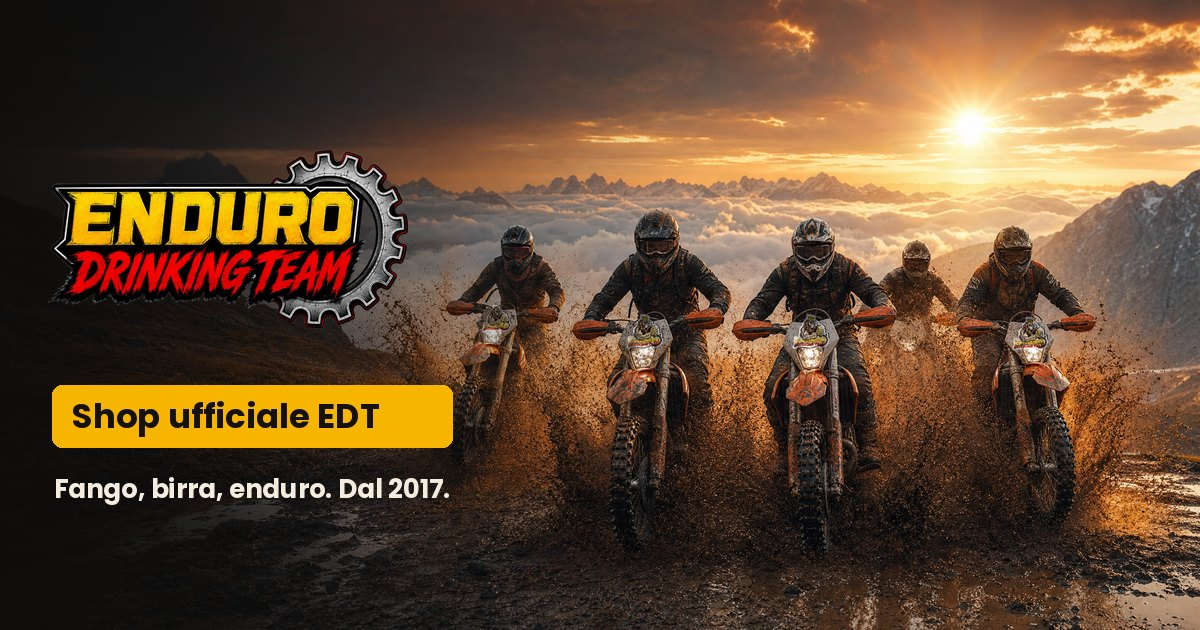
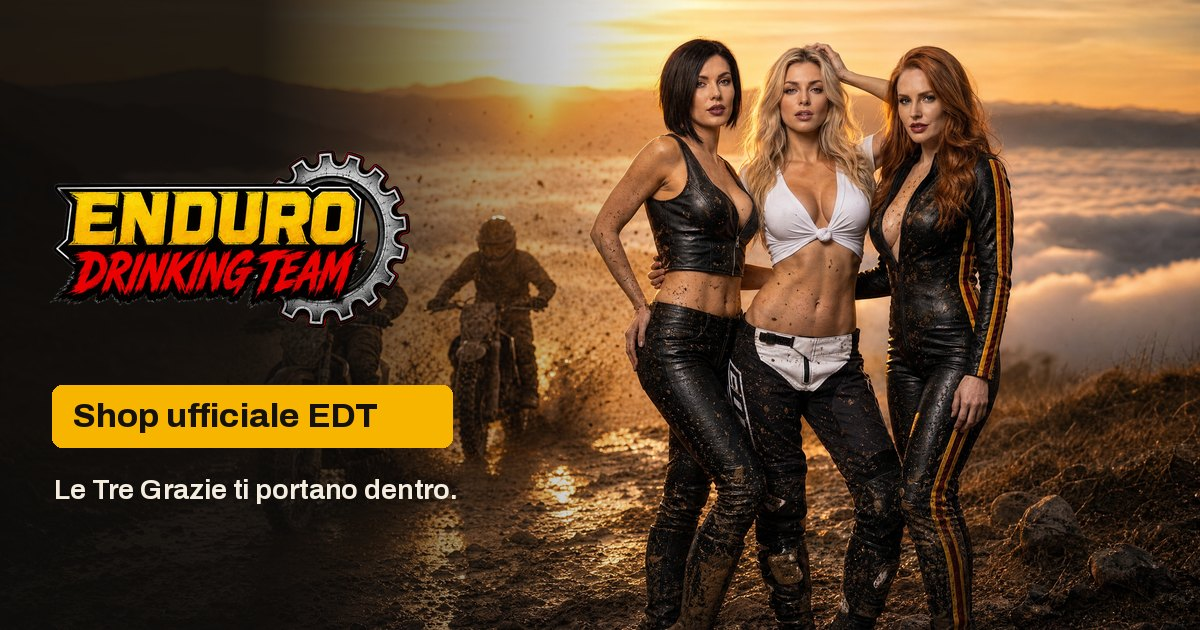
Anteprima del link con le tre ragazze immagine
Claude-Session: https://claude.ai/code/session_01NjZ5nCHtFKjStfz6ceuY2F

diff --git a/index.html b/index.html
@@ -12,14 +12,14 @@
 <meta property="og:url" content="https://endurodrinkingteam.com/">
 <meta property="og:title" content="Enduro Drinking Team · Shop ufficiale">
 <meta property="og:description" content="Non è un giro. È una storia. Magliette, felpe, completi da gara e adesivi dell'EDT.">
-<meta property="og:image" content="https://endurodrinkingteam.com/img/og.jpg">
+<meta property="og:image" content="https://endurodrinkingteam.com/img/og.jpg?v=2">
 <meta property="og:image:width" content="1200">
 <meta property="og:image:height" content="630">
 <meta property="og:image:alt" content="Piloti dell'Enduro Drinking Team nel fango al tramonto">
 <meta name="twitter:card" content="summary_large_image">
 <meta name="twitter:title" content="Enduro Drinking Team · Shop ufficiale">
 <meta name="twitter:description" content="Non è un giro. È una storia. Magliette, felpe, completi da gara e adesivi dell'EDT.">
-<meta name="twitter:image" content="https://endurodrinkingteam.com/img/og.jpg">
+<meta name="twitter:image" content="https://endurodrinkingteam.com/img/og.jpg?v=2">
 <script type="application/ld+json">{"@context":"https://schema.org","@graph":[{"@type":"Organization","@id":"https://endurodrinkingteam.com/#edt","name":"Enduro Drinking Team","alternateName":"EDT","url":"https://endurodrinkingteam.com/","logo":"https://endurodrinkingteam.com/img/logo-edt.png","foundingDate":"2017","description":"Gruppo di amici enduristi del Piemonte, con shop ufficiale del merchandising.","sameAs":["https://www.facebook.com/endurodrinkingteam/","https://www.instagram.com/endurodrinking/","https://www.tiktok.com/@endurodrinkingteam","https://www.youtube.com/@piemonteoff-road"]},{"@type":"WebSite","url":"https://endurodrinkingteam.com/","name":"Enduro Drinking Team","inLanguage":"it","publisher":{"@id":"https://endurodrinkingteam.com/#edt"}}]}</script>
 <script type="application/ld+json" id="ld-prodotti">{"@context": "https://schema.org", "@type": "ItemList", "name": "Shop Enduro Drinking Team", "itemListElement": [{"@type": "ListItem", "position": 1, "item": {"@type": "Product", "name": "Completo da gara EDT", "url": "https://endurodrinkingteam.com/#p=completo-gara", "image": "https://endurodrinkingteam.com/img/p/completo-svetlana.jpg", "description": "Maglia + pantalone con il cinghiale, il tuo nome e il numero.", "brand": {"@type": "Brand", "name": "Enduro Drinking Team"}, "offers": {"@type": "Offer", "price": "130.00", "priceCurrency": "EUR", "availability": "https://schema.org/InStock", "url": "https://endurodrinkingteam.com/#p=completo-gara"}}}, {"@type": "ListItem", "position": 2, "item": {"@type": "Product", "name": "Maglia da gara EDT", "url": "https://endurodrinkingteam.com/#p=maglia-gara", "image": "https://endurodrinkingteam.com/img/s/maglia-gara2.jpg", "description": "Enduro Drinking Team davanti, il cinghiale e il tuo nome sulla schiena.", "brand": {"@type": "Brand", "name": "Enduro Drinking Team"}, "offers": {"@type": "Offer", "price": "30.00", "priceCurrency": "EUR", "availability": "https://schema.org/InStock", "url": "https://endurodrinkingteam.com/#p=maglia-gara"}}}, {"@type": "ListItem", "position": 3, "item": {"@type": "Product", "name": "Pantalone da gara EDT", "url": "https://endurodrinkingteam.com/#p=pantalone-gara", "image": "https://endurodrinkingteam.com/img/x/pantalone-dettaglio.jpg", "description": "Il pantalone del completo, con i cinghiali sulle cosce. Venduto da solo.", "brand": {"@type": "Brand", "name": "Enduro Drinking Team"}, "offers": {"@type": "Offer", "price": "110.00", "priceCurrency": "EUR", "availability": "https://schema.org/InStock", "url": "https://endurodrinkingteam.com/#p=pantalone-gara"}}}, {"@type": "ListItem", "position": 4, "item": {"@type": "Product", "name": "Sono un endurista semplice", "url": "https://endurodrinkingteam.com/#p=endurista-semplice", "image": "https://endurodrinkingteam.com/img/p/endurista-svetlana.jpg", "description": "La t-shirt più onesta del Piemonte: scudetto EDT sulla manica e il tuo nome sulla schiena.", "brand": {"@type": "Brand", "name": "Enduro Drinking Team"}, "offers": {"@type": "Offer", "price": "18.00", "priceCurrency": "EUR", "availability": "https://schema.org/InStock", "url": "https://endurodrinkingteam.com/#p=endurista-semplice"}}}, {"@type": "ListItem", "position": 5, "item": {"@type": "Product", "name": "Felpa EDT con nome", "url": "https://endurodrinkingteam.com/#p=felpa-edt", "image": "https://endurodrinkingteam.com/img/s/felpa.jpg", "description": "Zip e cappuccio, il tuo nome sul petto.", "brand": {"@type": "Brand", "name": "Enduro Drinking Team"}, "offers": {"@type": "Offer", "price": "25.00", "priceCurrency": "EUR", "availability": "https://schema.org/InStock", "url": "https://endurodrinkingteam.com/#p=felpa-edt"}}}, {"@type": "ListItem", "position": 6, "item": {"@type": "Product", "name": "T-shirt GEV", "url": "https://endurodrinkingteam.com/#p=t-shirt-gev", "image": "https://endurodrinkingteam.com/img/s/gev.jpg", "description": "Cinque stelle e il tuo nome.", "brand": {"@type": "Brand", "name": "Enduro Drinking Team"}, "offers": {"@type": "Offer", "price": "18.00", "priceCurrency": "EUR", "availability": "https://schema.org/InStock", "url": "https://endurodrinkingteam.com/#p=t-shirt-gev"}}}, {"@type": "ListItem", "position": 7, "item": {"@type": "Product", "name": "Fuck the GEV", "url": "https://endurodrinkingteam.com/#p=fuck-the-gev", "image": "https://endurodrinkingteam.com/img/s/fuckgev.jpg", "description": "Il cinghiale anti-GEV. Per chi ha capito.", "brand": {"@type": "Brand", "name": "Enduro Drinking Team"}, "offers": {"@type": "Offer", "price": "18.00", "priceCurrency": "EUR", "availability": "https://schema.org/InStock", "url": "https://endurodrinkingteam.com/#p=fuck-the-gev"}}}, {"@type": "ListItem", "position": 8, "item": {"@type": "Product", "name": "Fuck the GEV 2026", "url": "https://endurodrinkingteam.com/#p=fuck-the-gev-2026", "image": "https://endurodrinkingteam.com/img/x/fgev26-tee.jpg", "description": "La nuova grafica 2026 in rosso, bianco e verde, grande sul petto.", "brand": {"@type": "Brand", "name": "Enduro Drinking Team"}, "offers": {"@type": "Offer", "price": "18.00", "priceCurrency": "EUR", "availability": "https://schema.org/InStock", "url": "https://endurodrinkingteam.com/#p=fuck-the-gev-2026"}}}, {"@type": "ListItem", "position": 9, "item": {"@type": "Product", "name": "T-shirt EDT 2026", "url": "https://endurodrinkingteam.com/#p=t-shirt-2020", "image": "https://endurodrinkingteam.com/img/s/tshirt2026.jpg", "description": "Il cinghiale vichingo 2026 sul rosso.", "brand": {"@type": "Brand", "name": "Enduro Drinking Team"}, "offers": {"@type": "Offer", "price": "15.00", "priceCurrency": "EUR", "availability": "https://schema.org/InStock", "url": "https://endurodrinkingteam.com/#p=t-shirt-2020"}}}, {"@type": "ListItem", "position": 10, "item": {"@type": "Product", "name": "Manica lunga classica", "url": "https://endurodrinkingteam.com/#p=manica-lunga", "image": "https://endurodrinkingteam.com/img/s/manica.jpg", "description": "Il cinghiale 2026 grande sul petto. Per le uscite di novembre.", "brand": {"@type": "Brand", "name": "Enduro Drinking Team"}, "offers": {"@type": "Offer", "price": "20.00", "priceCurrency": "EUR", "availability": "https://schema.org/InStock", "url": "https://endurodrinkingteam.com/#p=manica-lunga"}}}, {"@type": "ListItem", "position": 11, "item": {"@type": "Product", "name": "T-shirt Serial Griller", "url": "https://endurodrinkingteam.com/#p=t-shirt-serial-griller", "image": "https://endurodrinkingteam.com/img/s/griller.jpg", "description": "Dopo il giro, la griglia.", "brand": {"@type": "Brand", "name": "Enduro Drinking Team"}, "offers": {"@type": "Offer", "price": "15.00", "priceCurrency": "EUR", "availability": "https://schema.org/InStock", "url": "https://endurodrinkingteam.com/#p=t-shirt-serial-griller"}}}, {"@type": "ListItem", "position": 12, "item": {"@type": "Product", "name": "Grembiule Serial Griller", "url": "https://endurodrinkingteam.com/#p=grembiule", "image": "https://endurodrinkingteam.com/img/s/grembiule.jpg", "description": "Taglia unica, anche per chi brucia tutto.", "brand": {"@type": "Brand", "name": "Enduro Drinking Team"}, "offers": {"@type": "Offer", "price": "20.00", "priceCurrency": "EUR", "availability": "https://schema.org/InStock", "url": "https://endurodrinkingteam.com/#p=grembiule"}}}, {"@type": "ListItem", "position": 13, "item": {"@type": "Product", "name": "Berretto EDT", "url": "https://endurodrinkingteam.com/#p=berretto-edt", "image": "https://endurodrinkingteam.com/img/s/berretto.jpg", "description": "Berretto in maglia con la patch del cinghiale 2026.", "brand": {"@type": "Brand", "name": "Enduro Drinking Team"}, "offers": {"@type": "Offer", "price": "20.00", "priceCurrency": "EUR", "availability": "https://schema.org/InStock", "url": "https://endurodrinkingteam.com/#p=berretto-edt"}}}, {"@type": "ListItem", "position": 14, "item": {"@type": "Product", "name": "FAN Q LO Trial Team", "url": "https://endurodrinkingteam.com/#p=fanqlo-trial-team", "image": "https://endurodrinkingteam.com/img/x/fanqlo-tee.jpg", "description": "La Q è una gomma tassellata con dentro il logo Trial Team 4x4. Si capisce al volo.", "brand": {"@type": "Brand", "name": "Enduro Drinking Team"}, "offers": {"@type": "Offer", "price": "18.00", "priceCurrency": "EUR", "availability": "https://schema.org/InStock", "url": "https://endurodrinkingteam.com/#p=fanqlo-trial-team"}}}, {"@type": "ListItem", "position": 15, "item": {"@type": "Product", "name": "Cappello 4x4 in lana", "url": "https://endurodrinkingteam.com/#p=cappello-4x4", "image": "https://endurodrinkingteam.com/img/s/4x4.jpg", "description": "Con la patch 4x4 Off Road.", "brand": {"@type": "Brand", "name": "Enduro Drinking Team"}, "offers": {"@type": "Offer", "price": "12.00", "priceCurrency": "EUR", "availability": "https://schema.org/InStock", "url": "https://endurodrinkingteam.com/#p=cappello-4x4"}}}, {"@type": "ListItem", "position": 16, "item": {"@type": "Product", "name": "Cintura 4x4 in cuoio", "url": "https://endurodrinkingteam.com/#p=cintura-4x4", "image": "https://endurodrinkingteam.com/img/s/cintura.jpg", "description": "Cuoio nero con cuciture rosse, grafica 4x4 Off Road e battistrada. Personalizzabile col tuo nome.", "brand": {"@type": "Brand", "name": "Enduro Drinking Team"}, "offers": {"@type": "Offer", "price": "70.00", "priceCurrency": "EUR", "availability": "https://schema.org/InStock", "url": "https://endurodrinkingteam.com/#p=cintura-4x4"}}}, {"@type": "ListItem", "position": 17, "item": {"@type": "Product", "name": "Patch EDT", "url": "https://endurodrinkingteam.com/#p=patch-edt", "image": "https://endurodrinkingteam.com/img/s/c-patch.jpg", "description": "In stoffa, 8 × 7 cm.", "brand": {"@type": "Brand", "name": "Enduro Drinking Team"}, "offers": {"@type": "Offer", "price": "10.00", "priceCurrency": "EUR", "availability": "https://schema.org/InStock", "url": "https://endurodrinkingteam.com/#p=patch-edt"}}}, {"@type": "ListItem", "position": 18, "item": {"@type": "Product", "name": "Adesivo EDT grande", "url": "https://endurodrinkingteam.com/#p=adesivo-classico", "image": "https://endurodrinkingteam.com/img/s/c-classico.jpg", "description": "Il cinghiale 2026, 10 × 10 cm.", "brand": {"@type": "Brand", "name": "Enduro Drinking Team"}, "offers": {"@type": "Offer", "price": "1.00", "priceCurrency": "EUR", "availability": "https://schema.org/InStock", "url": "https://endurodrinkingteam.com/#p=adesivo-classico"}}}, {"@type": "ListItem", "position": 19, "item": {"@type": "Product", "name": "Adesivo EDT 2026", "url": "https://endurodrinkingteam.com/#p=adesivo-2020", "image": "https://endurodrinkingteam.com/img/s/c-2020.jpg", "description": "7 × 7 cm.", "brand": {"@type": "Brand", "name": "Enduro Drinking Team"}, "offers": {"@type": "Offer", "price": "1.00", "priceCurrency": "EUR", "availability": "https://schema.org/InStock", "url": "https://endurodrinkingteam.com/#p=adesivo-2020"}}}, {"@type": "ListItem", "position": 20, "item": {"@type": "Product", "name": "Adesivo olografico EDT", "url": "https://endurodrinkingteam.com/#p=adesivo-olografico", "image": "https://endurodrinkingteam.com/img/s/c-olografico.jpg", "description": "7 × 7 cm, brilla al sole.", "brand": {"@type": "Brand", "name": "Enduro Drinking Team"}, "offers": {"@type": "Offer", "price": "1.50", "priceCurrency": "EUR", "availability": "https://schema.org/InStock", "url": "https://endurodrinkingteam.com/#p=adesivo-olografico"}}}, {"@type": "ListItem", "position": 21, "item": {"@type": "Product", "name": "Adesivo stemma EDT", "url": "https://endurodrinkingteam.com/#p=stemma-2020", "image": "https://endurodrinkingteam.com/img/s/c-stemma.jpg", "description": "7 × 7 cm.", "brand": {"@type": "Brand", "name": "Enduro Drinking Team"}, "offers": {"@type": "Offer", "price": "1.00", "priceCurrency": "EUR", "availability": "https://schema.org/InStock", "url": "https://endurodrinkingteam.com/#p=stemma-2020"}}}, {"@type": "ListItem", "position": 22, "item": {"@type": "Product", "name": "Adesivo Enduro Piemonte", "url": "https://endurodrinkingteam.com/#p=adesivo-piemonte", "image": "https://endurodrinkingteam.com/img/s/q-adesivo-piemonte.jpg", "description": "8 × 8 cm.", "brand": {"@type": "Brand", "name": "Enduro Drinking Team"}, "offers": {"@type": "Offer", "price": "1.00", "priceCurrency": "EUR", "availability": "https://schema.org/InStock", "url": "https://endurodrinkingteam.com/#p=adesivo-piemonte"}}}, {"@type": "ListItem", "position": 23, "item": {"@type": "Product", "name": "Adesivo Grigliare humanum est", "url": "https://endurodrinkingteam.com/#p=adesivo-grigliare", "image": "https://endurodrinkingteam.com/img/s/q-adesivo-grigliare.jpg", "description": "9 × 6 cm.", "brand": {"@type": "Brand", "name": "Enduro Drinking Team"}, "offers": {"@type": "Offer", "price": "1.00", "priceCurrency": "EUR", "availability": "https://schema.org/InStock", "url": "https://endurodrinkingteam.com/#p=adesivo-grigliare"}}}, {"@type": "ListItem", "position": 24, "item": {"@type": "Product", "name": "Adesivo I want you for giri easy", "url": "https://endurodrinkingteam.com/#p=adesivo-iwantyou", "image": "https://endurodrinkingteam.com/img/s/q-adesivo-iwantyou.jpg", "description": "Il reclutamento ufficiale EDT.", "brand": {"@type": "Brand", "name": "Enduro Drinking Team"}, "offers": {"@type": "Offer", "price": "1.00", "priceCurrency": "EUR", "availability": "https://schema.org/InStock", "url": "https://endurodrinkingteam.com/#p=adesivo-iwantyou"}}}, {"@type": "ListItem", "position": 25, "item": {"@type": "Product", "name": "Adesivo San Miti", "url": "https://endurodrinkingteam.com/#p=adesivo-sanmiti", "image": "https://endurodrinkingteam.com/img/s/q-adesivo-sanmiti.jpg", "description": "Protettore dell'EDT. Attaccalo sul parafango, non si sa mai.", "brand": {"@type": "Brand", "name": "Enduro Drinking Team"}, "offers": {"@type": "Offer", "price": "1.00", "priceCurrency": "EUR", "availability": "https://schema.org/InStock", "url": "https://endurodrinkingteam.com/#p=adesivo-sanmiti"}}}, {"@type": "ListItem", "position": 26, "item": {"@type": "Product", "name": "Calamita stemma EDT", "url": "https://endurodrinkingteam.com/#p=calamita-stemma", "image": "https://endurodrinkingteam.com/img/s/c-calamita-stemma.jpg", "description": "65 × 76 mm.", "brand": {"@type": "Brand", "name": "Enduro Drinking Team"}, "offers": {"@type": "Offer", "price": "1.50", "priceCurrency": "EUR", "availability": "https://schema.org/InStock", "url": "https://endurodrinkingteam.com/#p=calamita-stemma"}}}, {"@type": "ListItem", "position": 27, "item": {"@type": "Product", "name": "Calamita EDT", "url": "https://endurodrinkingteam.com/#p=calamita-edt", "image": "https://endurodrinkingteam.com/img/s/c-calamita.jpg", "description": "8 × 8 cm.", "brand": {"@type": "Brand", "name": "Enduro Drinking Team"}, "offers": {"@type": "Offer", "price": "1.50", "priceCurrency": "EUR", "availability": "https://schema.org/InStock", "url": "https://endurodrinkingteam.com/#p=calamita-edt"}}}, {"@type": "ListItem", "position": 28, "item": {"@type": "Product", "name": "Spilla EDT classica", "url": "https://endurodrinkingteam.com/#p=spilla-classica", "image": "https://endurodrinkingteam.com/img/s/c-spilla.jpg", "description": "3 × 3 cm.", "brand": {"@type": "Brand", "name": "Enduro Drinking Team"}, "offers": {"@type": "Offer", "price": "1.50", "priceCurrency": "EUR", "availability": "https://schema.org/InStock", "url": "https://endurodrinkingteam.com/#p=spilla-classica"}}}, {"@type": "ListItem", "position": 29, "item": {"@type": "Product", "name": "Spilla Enduro Piemonte", "url": "https://endurodrinkingteam.com/#p=spilla-piemonte", "image": "https://endurodrinkingteam.com/img/s/q-spilla-piemonte.jpg", "description": "4 × 4 cm.", "brand": {"@type": "Brand", "name": "Enduro Drinking Team"}, "offers": {"@type": "Offer", "price": "1.50", "priceCurrency": "EUR", "availability": "https://schema.org/InStock", "url": "https://endurodrinkingteam.com/#p=spilla-piemonte"}}}]}</script>
 <meta name="theme-color" content="#0f0d0b">
